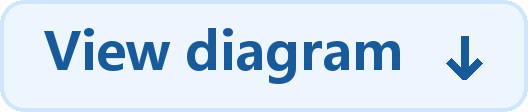
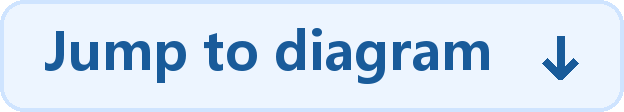
Clarify direct link to the mechanics diagram

diff --git a/README.md b/README.md
@@ -14,7 +14,7 @@
 
 [数学模型](#zh-model) · [设计依据与演进](#zh-evolution) · [数据与假设](#zh-data) · [案例与验证](#zh-verification) · [求解与复现](#zh-methods) · [局限](#zh-limits) · [贡献与文档](#zh-sources)
 
-**机制与术语** &nbsp; <a href="#zh-tag-figure"><img src="docs/images/jump-to-figure-zh.png" alt="看机制图" width="104" height="28" align="middle"></a>
+**机制与术语** &nbsp; <a href="#zh-tag-figure"><img src="docs/images/jump-to-figure-zh.png" alt="直接看机制图" width="132" height="28" align="middle"></a>
 
 制作与评价分为三个步骤：
 
@@ -402,7 +402,7 @@ The author's main work comprises identifying gameplay problems, clarifying rule 
 
 [Mathematical model](#en-model) · [Design rationale and evolution](#en-evolution) · [Data and assumptions](#en-data) · [Cases and verification](#en-verification) · [Solution methods and reproduction](#en-methods) · [Limitations](#en-limits) · [Contributions and documentation](#en-sources)
 
-**Mechanics and terminology** &nbsp; <a href="#en-tag-figure"><img src="docs/images/jump-to-figure-en.png" alt="View diagram" width="132" height="28" align="middle"></a>
+**Mechanics and terminology** &nbsp; <a href="#en-tag-figure"><img src="docs/images/jump-to-figure-en.png" alt="Jump to diagram" width="156" height="28" align="middle"></a>
 
 Preparation and evaluation follow three steps:
 

diff --git a/CHANGELOG.md b/CHANGELOG.md
@@ -1,5 +1,9 @@
 # 变更记录
 
+## 机制图入口文案
+
+- 标题旁的图片按钮改为“直接看机制图 / Jump to diagram”，相应加宽以容纳文字，保留原配色与页内跳转。
+
 ## 流行标签的来源与附加关系
 
 - 中英文机制图第 5 节以草绿色表示流行情境、附加的「流行·喜爱」及其匹配连线，人物喜爱保留紫色。
